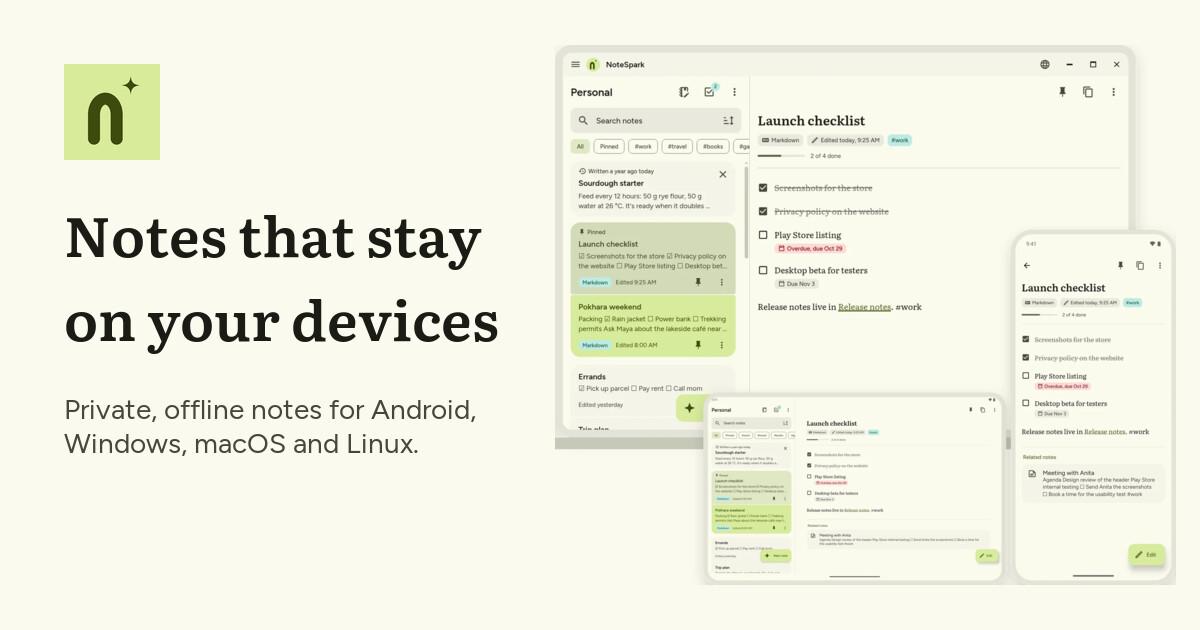
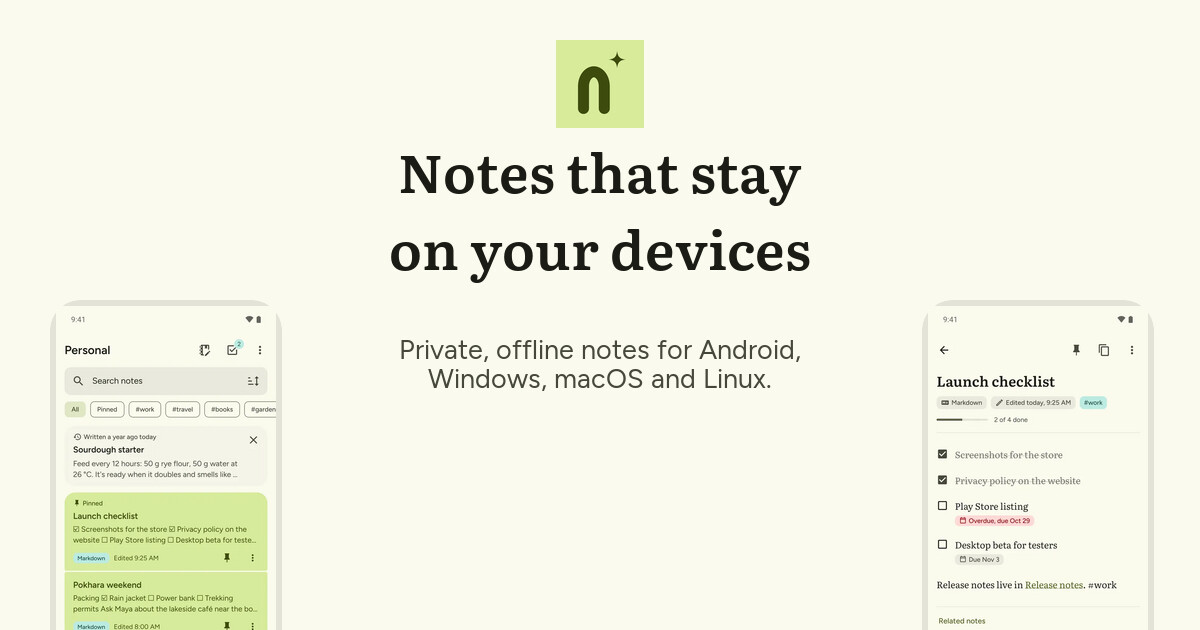
Website: social card redrawn for WhatsApp's square crop

diff --git a/web/index.html b/web/index.html
@@ -15,7 +15,7 @@
   <meta property="og:url" content="https://notespark.lusansapkota.com.np/" />
   <meta property="og:site_name" content="NoteSpark" />
   <meta property="og:locale" content="en" />
-  <meta property="og:image" content="https://notespark.lusansapkota.com.np/assets/og-card.jpg" />
+  <meta property="og:image" content="https://notespark.lusansapkota.com.np/assets/og-card.jpg?v=2" />
   <meta property="og:image:width" content="1200" />
   <meta property="og:image:height" content="630" />
   <meta property="og:image:alt" content="NoteSpark open on a laptop, a tablet and a phone" />
@@ -29,7 +29,7 @@
   "operatingSystem": "Android, Windows, macOS, Linux",
   "description": "A calm, offline notes app. Plain text or Markdown, tasks inside your notes, search by meaning on your device, and locked profiles. No account, no cloud, no ads.",
   "url": "https://notespark.lusansapkota.com.np/",
-  "image": "https://notespark.lusansapkota.com.np/assets/og-card.jpg",
+  "image": "https://notespark.lusansapkota.com.np/assets/og-card.jpg?v=2",
   "license": "https://www.gnu.org/licenses/gpl-3.0.html",
   "downloadUrl": "https://github.com/Lusan-sapkota/NoteSpark/releases/latest",
   "offers": {

diff --git a/web/changelog.html b/web/changelog.html
@@ -15,7 +15,7 @@
   <meta property="og:url" content="https://notespark.lusansapkota.com.np/changelog.html" />
   <meta property="og:site_name" content="NoteSpark" />
   <meta property="og:locale" content="en" />
-  <meta property="og:image" content="https://notespark.lusansapkota.com.np/assets/og-card.jpg" />
+  <meta property="og:image" content="https://notespark.lusansapkota.com.np/assets/og-card.jpg?v=2" />
   <meta property="og:image:width" content="1200" />
   <meta property="og:image:height" content="630" />
   <meta property="og:image:alt" content="NoteSpark open on a laptop, a tablet and a phone" />

diff --git a/web/privacy.html b/web/privacy.html
@@ -15,7 +15,7 @@
   <meta property="og:url" content="https://notespark.lusansapkota.com.np/privacy.html" />
   <meta property="og:site_name" content="NoteSpark" />
   <meta property="og:locale" content="en" />
-  <meta property="og:image" content="https://notespark.lusansapkota.com.np/assets/og-card.jpg" />
+  <meta property="og:image" content="https://notespark.lusansapkota.com.np/assets/og-card.jpg?v=2" />
   <meta property="og:image:width" content="1200" />
   <meta property="og:image:height" content="630" />
   <meta property="og:image:alt" content="NoteSpark open on a laptop, a tablet and a phone" />

diff --git a/web/help.html b/web/help.html
@@ -15,7 +15,7 @@
   <meta property="og:url" content="https://notespark.lusansapkota.com.np/help.html" />
   <meta property="og:site_name" content="NoteSpark" />
   <meta property="og:locale" content="en" />
-  <meta property="og:image" content="https://notespark.lusansapkota.com.np/assets/og-card.jpg" />
+  <meta property="og:image" content="https://notespark.lusansapkota.com.np/assets/og-card.jpg?v=2" />
   <meta property="og:image:width" content="1200" />
   <meta property="og:image:height" content="630" />
   <meta property="og:image:alt" content="NoteSpark open on a laptop, a tablet and a phone" />
